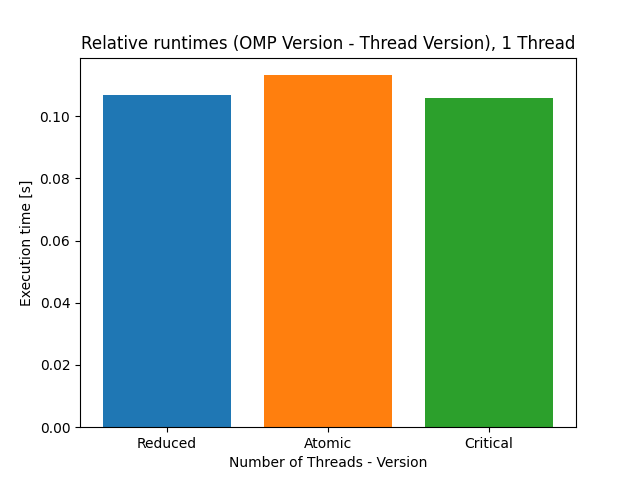
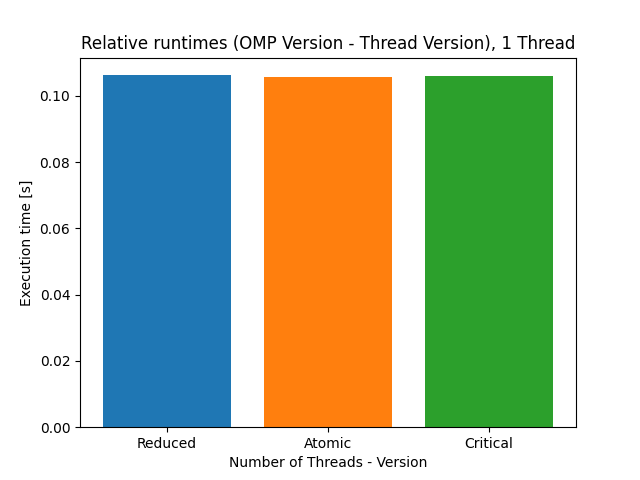
Optimized reduction version for task 1

diff --git a/Assignment_03/task1/monte_carlo_pi_openmp_reduction.c b/Assignment_03/task1/monte_carlo_pi_openmp_reduction.c
@@ -20,6 +20,8 @@ int main(int argc, char** argv){
     long total_inside = 0;
     omp_set_num_threads(num_threads);
     double start_time = omp_get_wtime();
+    double partial_results[num_threads];
+
     #pragma omp parallel private(seed)
     {
         long partial_inside = 0;
@@ -32,10 +34,11 @@ int main(int argc, char** argv){
                 partial_inside++;
             }
         }
+        partial_results[omp_get_thread_num()] = partial_inside; //writing back to shared variable because unsure of reduction behaviour
 
         #pragma omp for reduction(+: total_inside)
         for (int i = 0; i<num_threads; i++){
-            total_inside+=partial_inside;
+            total_inside+=partial_results[i];
         }
 
     }
